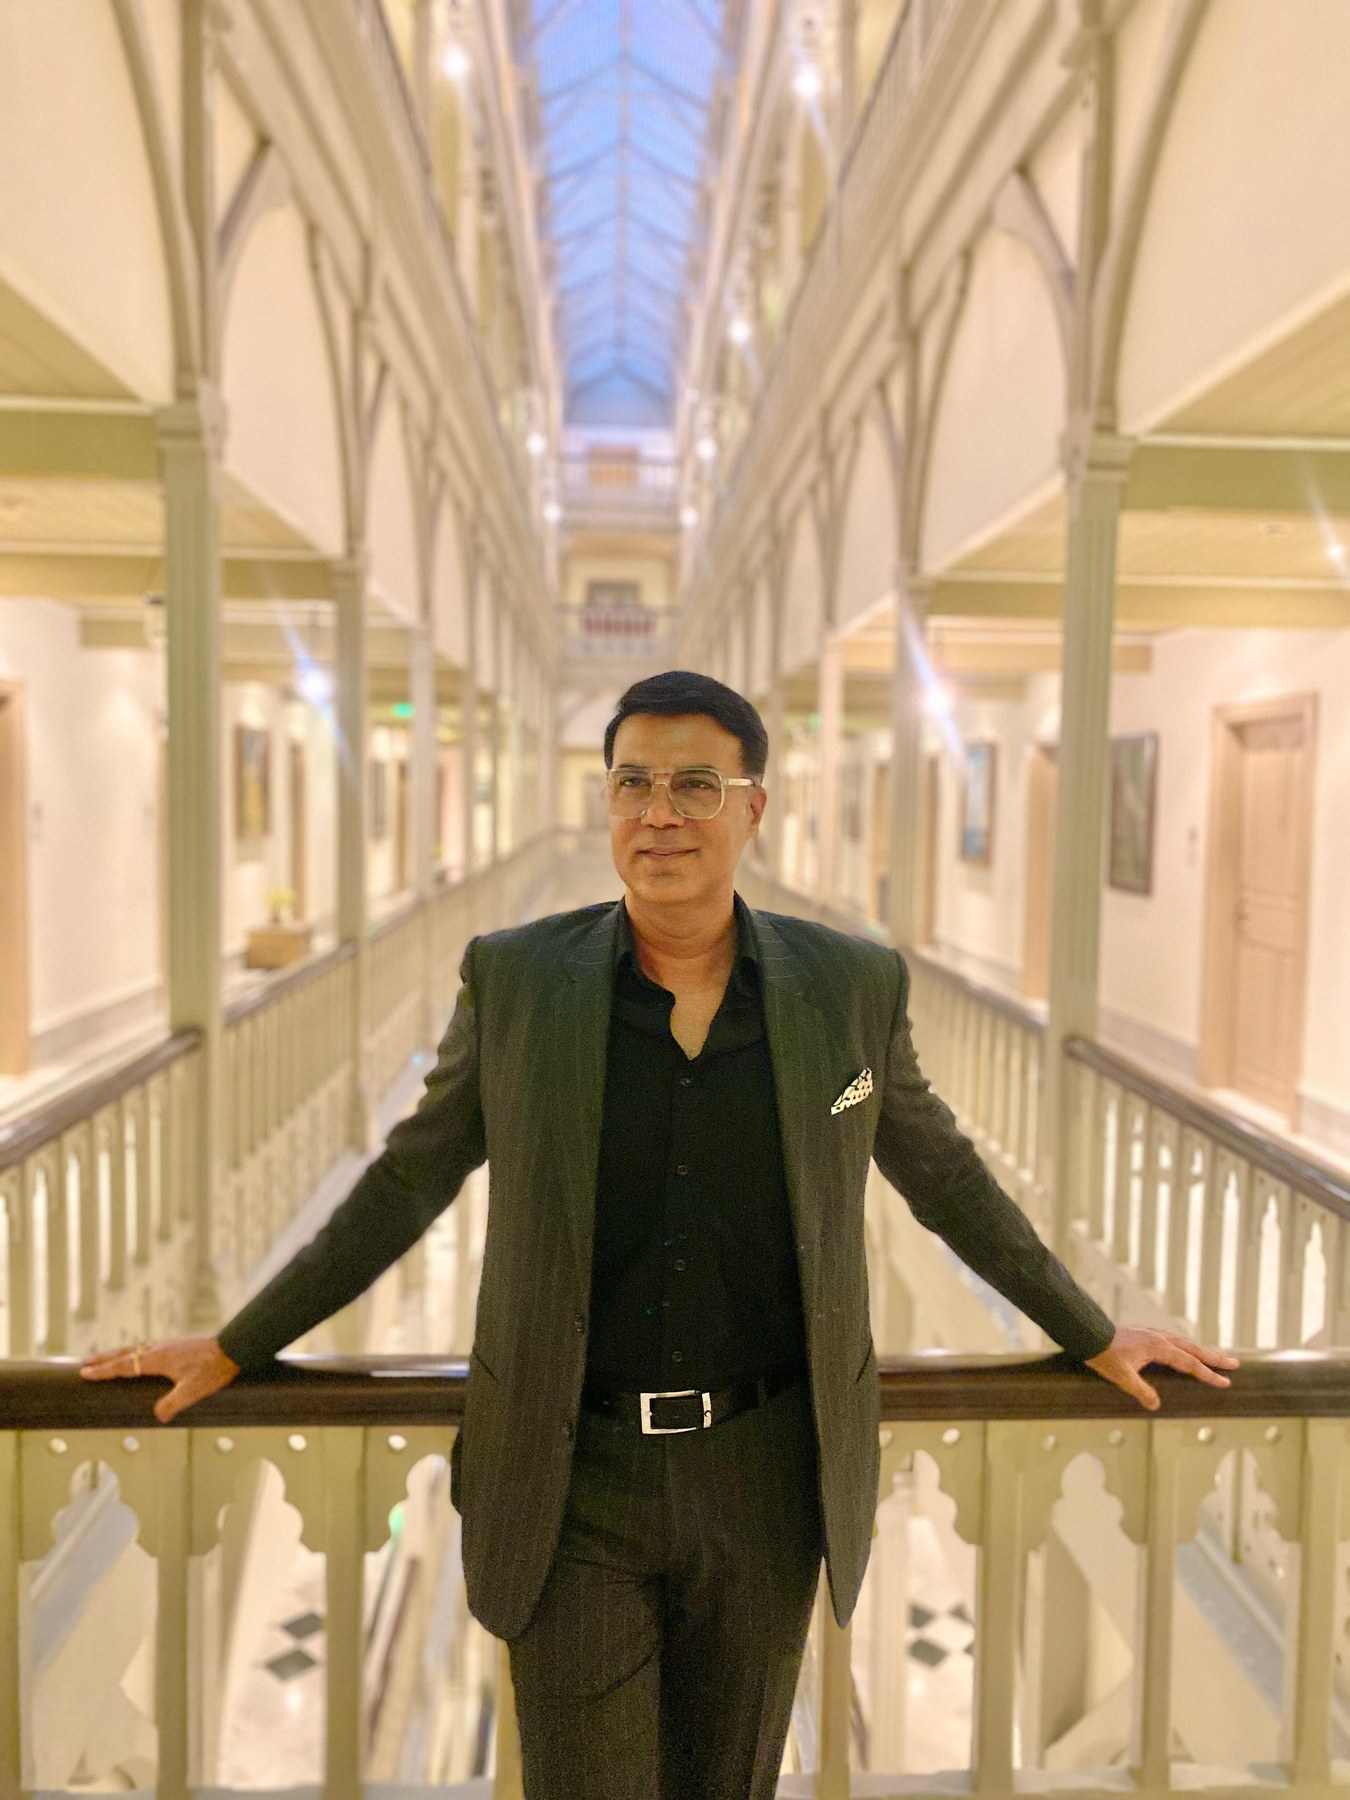
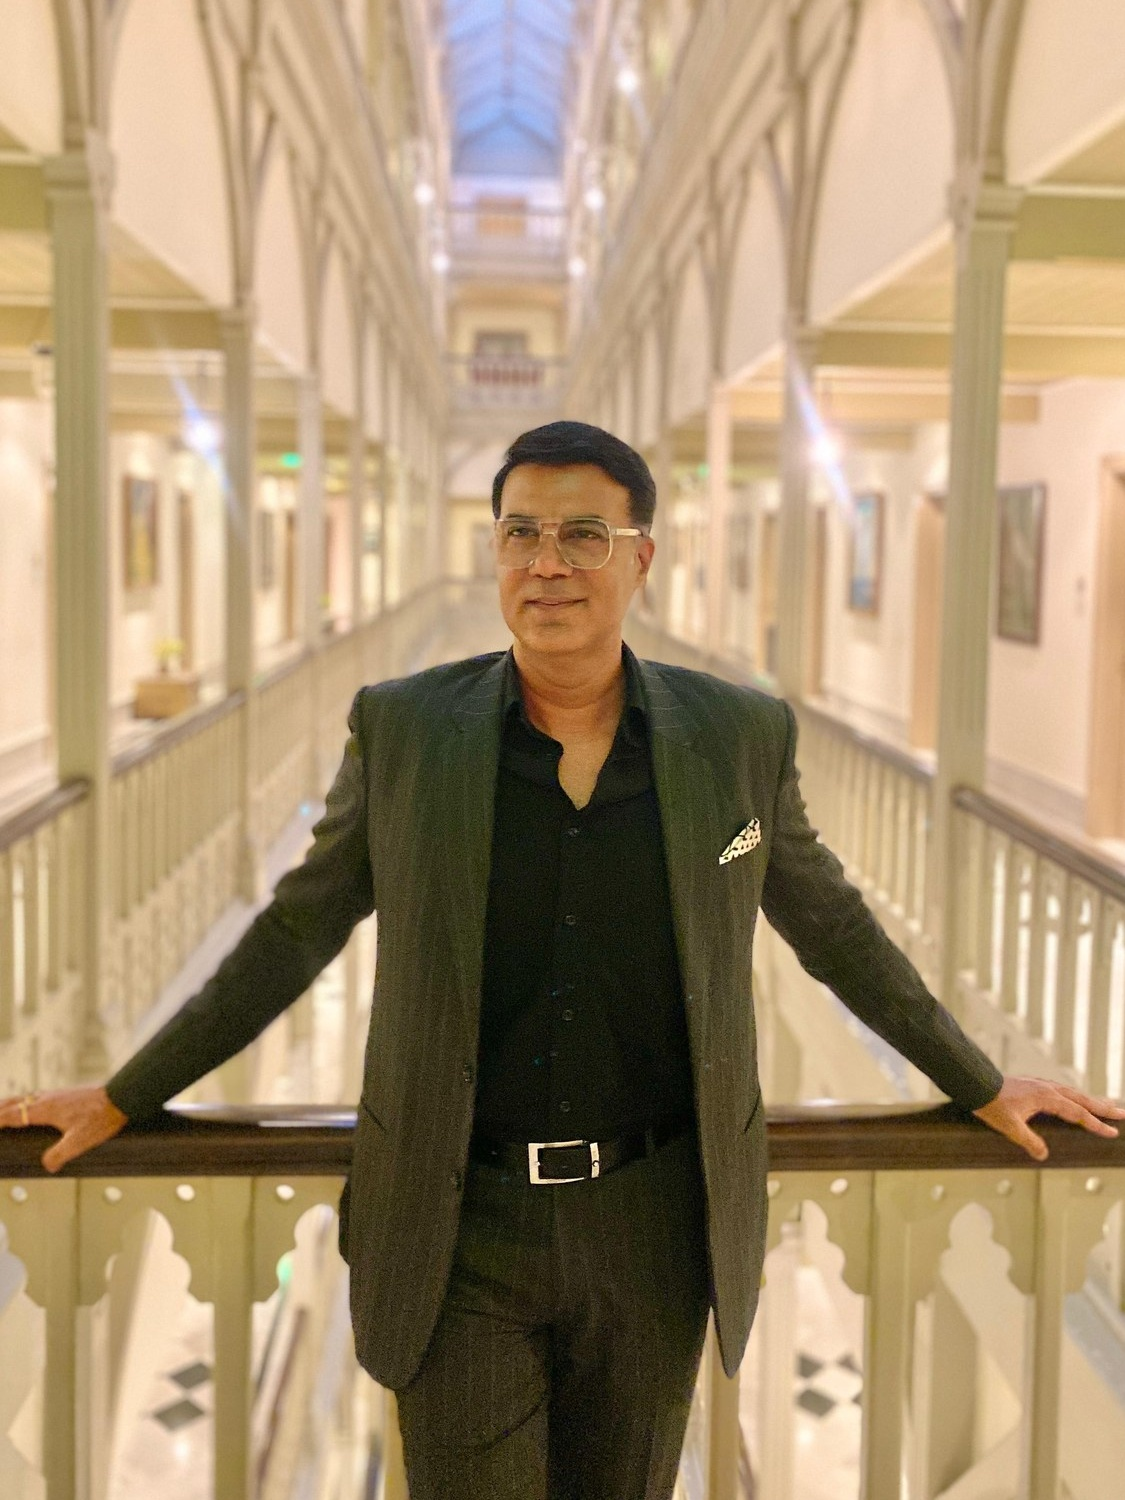
fix(hero): calibrated aspect ratios, focal points, and zoom to perfectly frame all 6 client photographs

diff --git a/src/components/sections/HeroSection.jsx b/src/components/sections/HeroSection.jsx
@@ -11,54 +11,48 @@ import jetSeatedImg from '@/assets/images/editorial/sushill-private-jet-seated.j
 import campaignImg from '@/assets/images/editorial/sushill-brand-campaign.jpg';
 import yachtImg from '@/assets/images/editorial/sushill-yacht-lifestyle.jpg';
 
-// Perfectly framed zoom and focal coordinates per photograph
+// Perfectly calibrated framing and focal coordinates per photograph
 const HERO_SLIDES = [
   {
     image: jetStandingImg,
     attribute: "GLOBAL",
-    position: "center 28%",
-    scale: 1.38,
-    origin: "center 28%",
+    position: "center 18%",
+    origin: "center 18%",
     alt: "Sushill Waddhwa — Global Hospitality Entrepreneur aboard private aviation",
   },
   {
     image: atriumImg,
     attribute: "SOPHISTICATED",
-    position: "center 34%",
-    scale: 1.45,
-    origin: "center 34%",
+    position: "center 22%",
+    origin: "center 22%",
     alt: "Sushill Waddhwa — Sophisticated hospitality leader at luxury hotel atrium",
   },
   {
     image: palaceImg,
     attribute: "TRUSTWORTHY",
-    position: "center 22%",
-    scale: 1.32,
-    origin: "center 22%",
+    position: "center 18%",
+    origin: "center 18%",
     alt: "Sushill Waddhwa — Trustworthy Founder & CMD, Platinum World Grroup",
   },
   {
     image: jetSeatedImg,
     attribute: "CHARISMATIC",
-    position: "60% 48%",
-    scale: 1.55,
-    origin: "60% 48%",
+    position: "center 24%",
+    origin: "center 24%",
     alt: "Sushill Waddhwa — Charismatic international investor seated in private jet",
   },
   {
     image: campaignImg,
     attribute: "DISCERNING",
-    position: "center 24%",
-    scale: 1.32,
-    origin: "center 24%",
+    position: "65% 20%",
+    origin: "65% 20%",
     alt: "Sushill Waddhwa — Discerning style and brand alignments",
   },
   {
     image: yachtImg,
     attribute: "ADVENTUROUS",
-    position: "center 28%",
-    scale: 1.38,
-    origin: "center 28%",
+    position: "center 18%",
+    origin: "center 18%",
     alt: "Sushill Waddhwa — Adventurous explorer across international waters",
   },
 ];
@@ -107,9 +101,9 @@ export const HeroSection = () => {
             <motion.img
               src={activeSlide.image}
               alt={activeSlide.alt}
-              initial={{ scale: activeSlide.scale * 1.03 }}
-              animate={{ scale: activeSlide.scale }}
-              transition={{ duration: 5, ease: "linear" }}
+              initial={{ scale: 1.025 }}
+              animate={{ scale: 1.0 }}
+              transition={{ duration: 5, ease: "easeOut" }}
               style={{
                 objectPosition: activeSlide.position,
                 transformOrigin: activeSlide.origin,
